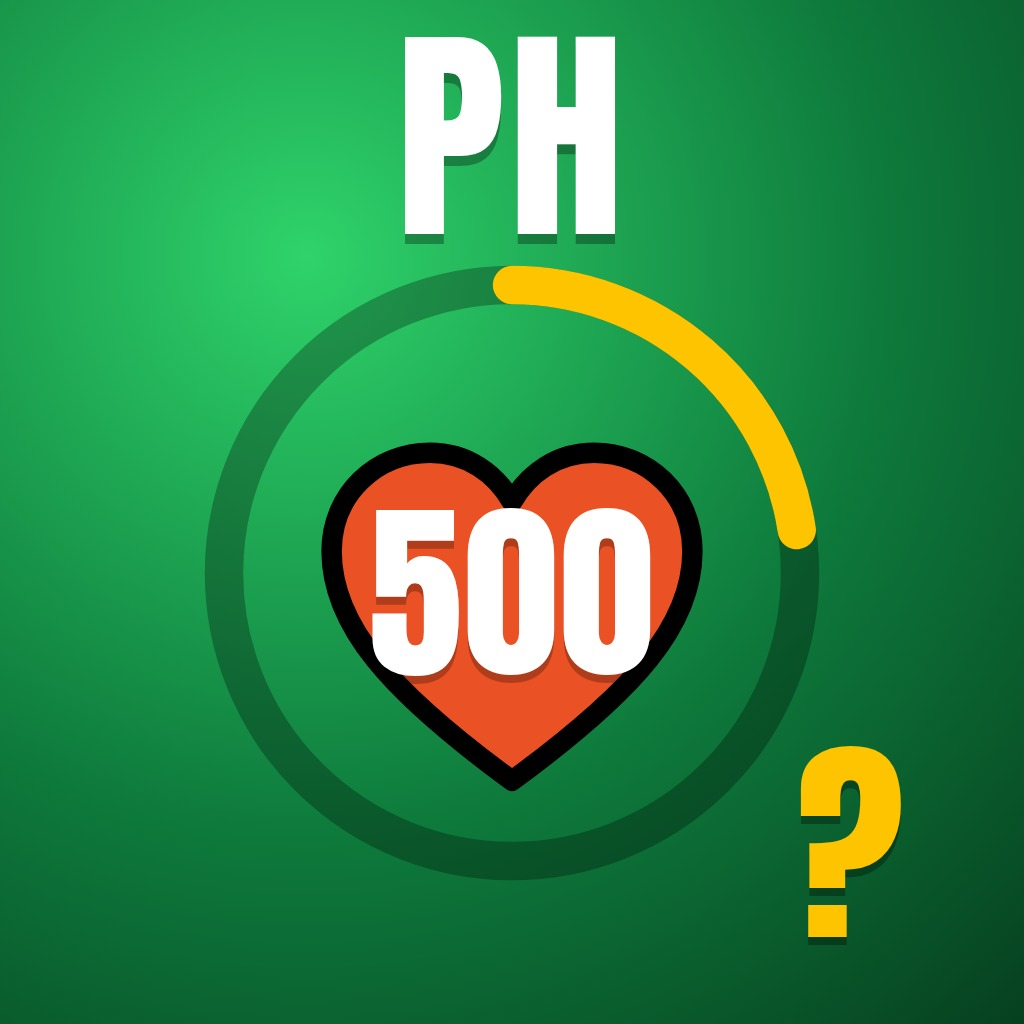
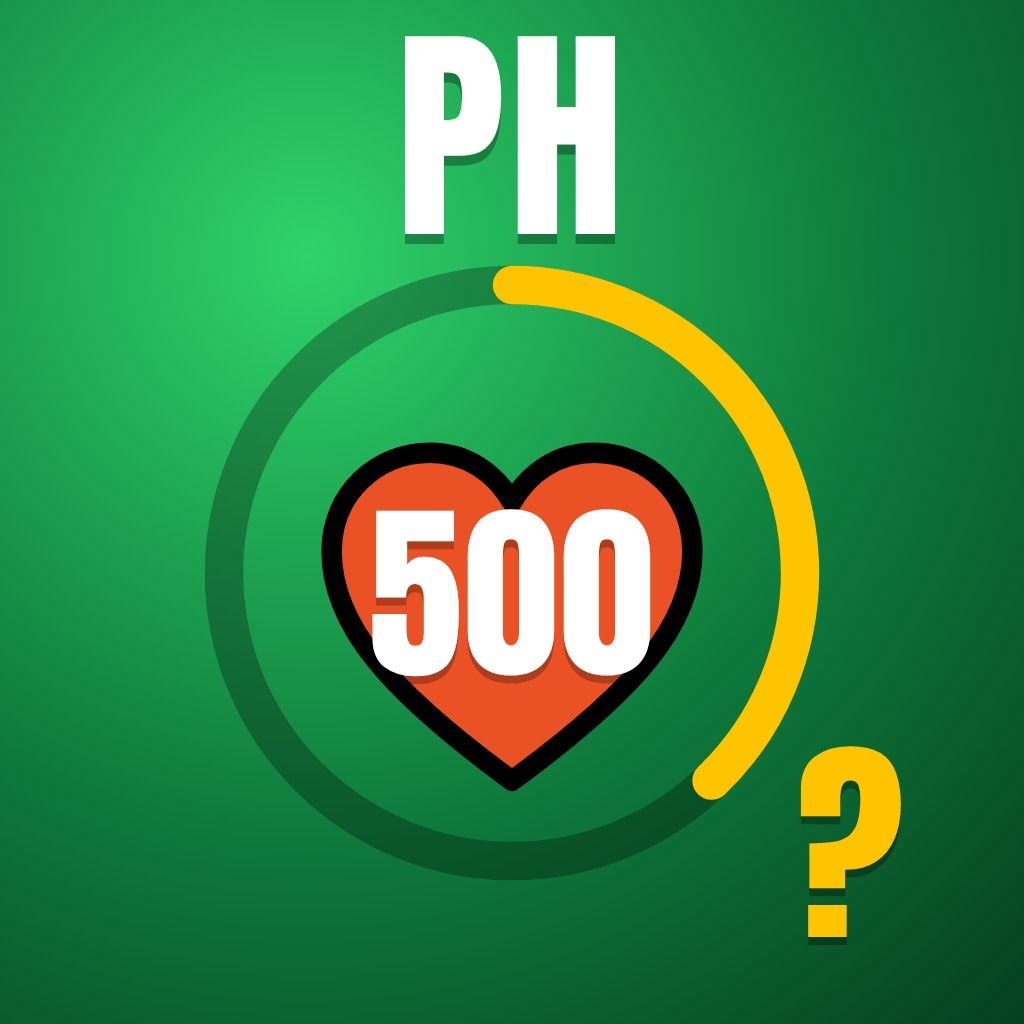
Re-render PH 500-likes image at 189 likes; update handoff with dashboard, UGM status and revised odds
Claude-Session: https://claude.ai/code/session_019SA4Urko1XhnsF4VZAGMyz

Changed region(s): [[0.6562, 0.5312, 0.8125, 0.7812]]

diff --git a/ugm-art/ph-500-likes.html b/ugm-art/ph-500-likes.html
@@ -5,7 +5,7 @@
   html,body{margin:0;background:#000}
   .art{width:1024px;height:1024px;position:relative;overflow:hidden;font-family:Anton,Impact,sans-serif;
        background:radial-gradient(circle at 30% 25%, #2fd36b 0, #0e7a3c 55%, #06401f 100%)}
-  /* progress ring: 35 of 500 likes */
+  /* progress ring: 189 of 500 likes */
   .ring{position:absolute;left:50%;top:56%;width:640px;height:640px;transform:translate(-50%,-50%)}
   .ph{position:absolute;left:0;right:0;top:22px;text-align:center;font-size:230px;line-height:1;color:#fff;
        letter-spacing:4px;text-shadow:0 10px 0 rgba(0,0,0,.3)}
@@ -18,7 +18,7 @@
   <svg class="ring" viewBox="0 0 100 100" aria-hidden="true">
     <circle cx="50" cy="50" r="45" fill="none" stroke="rgba(0,0,0,.28)" stroke-width="6"/>
     <circle cx="50" cy="50" r="45" fill="none" stroke="#ffc400" stroke-width="6" stroke-linecap="round"
-      stroke-dasharray="63.90 999" transform="rotate(-90 50 50)"/>
+      stroke-dasharray="106.88 999" transform="rotate(-90 50 50)"/>
   </svg>
   <div class="ph">PH</div>
   <svg class="heart" viewBox="0 0 100 100" aria-hidden="true">

diff --git a/HANDOFF.md b/HANDOFF.md
@@ -33,7 +33,8 @@ Last updated: **Tue 6 Oct 2026, ~02:45 UTC**. Branch: `claude/eager-gauss-qyeyli
   - BTC Daily DOWN and ETH Daily DOWN: both won.
   - BTC Weekly UP (strike $83,325.71, settled 5 Oct 03:59 UTC): **won** (resolved Up).
   - **No W41 BTC weekly market is live yet** (6 Oct 02:40 UTC): `btc-weekly-price` still points at last week's resolved market. Re-check `?resolve`/`/markets/btc-weekly-price` before planning a weekly post.
-- **Unknown:** how many W40 posts were verified, and his current rank. Ask him.
+- **Dashboard (6 Oct ~02:45 UTC, Mini App):** rank **#27**, score 43, 7 qualifying posts, "12 place(s) outside the top 40%" (so the top-40% cutoff is ~#15). W40: 9 of 10 submitted, **7 verified** (2 undecided/rejected, unknown which; the app says totals are a lower bound). W41: 1 of 10 submitted, 1 verified.
+- **Conflict to resolve:** the note above says "top 8 of 18" win, but the dashboard talks about the top 40% with ~37 ambassadors. Ask Franklin which payout rule is current; it changes how aggressive to be.
 
 ## 2. The tracker site: `phase-1/` (Vercel project "phase-1", root dir `phase-1`)
 Plain HTML/CSS/JS with no build step, plus serverless functions. See `phase-1/README.md` for details.
@@ -78,17 +79,19 @@ Plain HTML/CSS/JS with no build step, plus serverless functions. See `phase-1/RE
   Afterwards, reply to people tagging their cities for the first hour.
 
 ## 4. User-generated market (UGM): waiting on Limitless
-- **Creation fails** with "Network Error", then **HTTP 429** (rate limit / daily cap). **The user reported it to the Limitless team, who are fixing it.**
+- **Limitless says UGM creation is fixed (6 Oct).** Franklin has not retried yet. Create the market **once**; if it errors, check his profile for a duplicate before retrying. (Earlier it failed with "Network Error" then HTTP 429.)
 - **What the create flow actually is:** a **custom, self-resolved pool market**. You set opening odds and a liquidity amount, and **the user is the resolver** ("funds locked if not resolved").
 - **Decided market:** **"Will PH Lifestyle's launch post reach 500 likes by Oct 11, 2026, 18:00 UTC?"**
   - Post: https://x.com/danieldxdere/status/2106247857514688541
   - Likes: 35 (Oct 4) → 114 → 145 (Oct 5 16:00 UTC) → **189** (Oct 6 02:40 UTC, 31K views). Growth is slowing as the viral traffic decays, so 500 by Oct 11 looks unlikely (guess: ends ~250-320). Re-check before launch and open **lower** than the table below if it's still <250.
-  - **Opening odds by like count at launch:** ~25–30% YES if 150–200 likes, ~40% if >250.
+  - **Opening odds (revised 6 Oct):** need +311 likes in ~135h from 189. The last 10.7h ran ~4/hr; if that rate decays (half-life 24–48h) it ends ~330–430, and 500 needs a half-life of ~3 days or a new spike. Open at **~20% YES**. A 400 threshold would be near a coin flip if a more balanced market is wanted. Re-check the count right before creating.
+  - **Decided against** a market about the Lagos Life / PH-in-Lagos-Life update: subjective, unresolvable by a number, and it points at a third party's work.
+  - **Trading ends:** consider 16:00 UTC (reading still at 18:00 UTC) so informed late traders can't drain a $10 pool.
   - **Liquidity:** $10 (user has ~$20 total).
   - **Trading ends:** Oct 11, 19:00 WAT (18:00 UTC).
   - **Resolution text** (update the reference count on launch day):
     ```
-    Resolves YES if @danieldxdere's PH Lifestyle post (x.com/danieldxdere/status/2106247857514688541) shows 500+ likes at or before Oct 11, 2026, 18:00 UTC. Otherwise NO. Source: like count displayed on X, screenshotted at resolution. Reference: <N> likes on <date/time> UTC.
+    Resolves YES if the like count shown on @danieldxdere's PH Lifestyle launch post (x.com/danieldxdere/status/2106247857514688541) is 500 or more at 18:00 UTC on Oct 11, 2026. Otherwise NO. Source: the public like count on X, screenshotted at 18:00 UTC and cross-checked against a second source. If the post is deleted or hidden before then, it resolves NO. Reference: <N> likes at <time> UTC on <date>.
     ```
   - **Launch post:** post as a reply under the viral post. Update the like count first.
     ```
@@ -102,8 +105,8 @@ Plain HTML/CSS/JS with no build step, plus serverless functions. See `phase-1/RE
 
     (Full disclosure: Team PH 💚)
     ```
-    "800K" is now out of date. Use "1M+".
-  - **Image:** `ugm-art/ph-500-likes.png`. Its ring shows 113/500; re-render from the `.html` if needed.
+    Use "1M+" instead of "800K" (viral post is at 1.38M views). Fill in the live like count.
+  - **Image:** `ugm-art/ph-500-likes.png`. Ring re-rendered 6 Oct at 189/500. To re-render: set `stroke-dasharray` to `likes/500*282.74` in the `.html` (circumference of r=45), then screenshot the `#art` element at 1024x1024 with Playwright (`/opt/node-tools`, chromium at `/opt/pw-browsers/chromium-1194/chrome-linux/chrome`).
   - **Other images:**
     - `ph-vs-lagos.png` is for the PH vs Lagos market, which is effectively dead (Lagos has 15K+ likes).
     - `ph-1500-likes.png` is unused.
